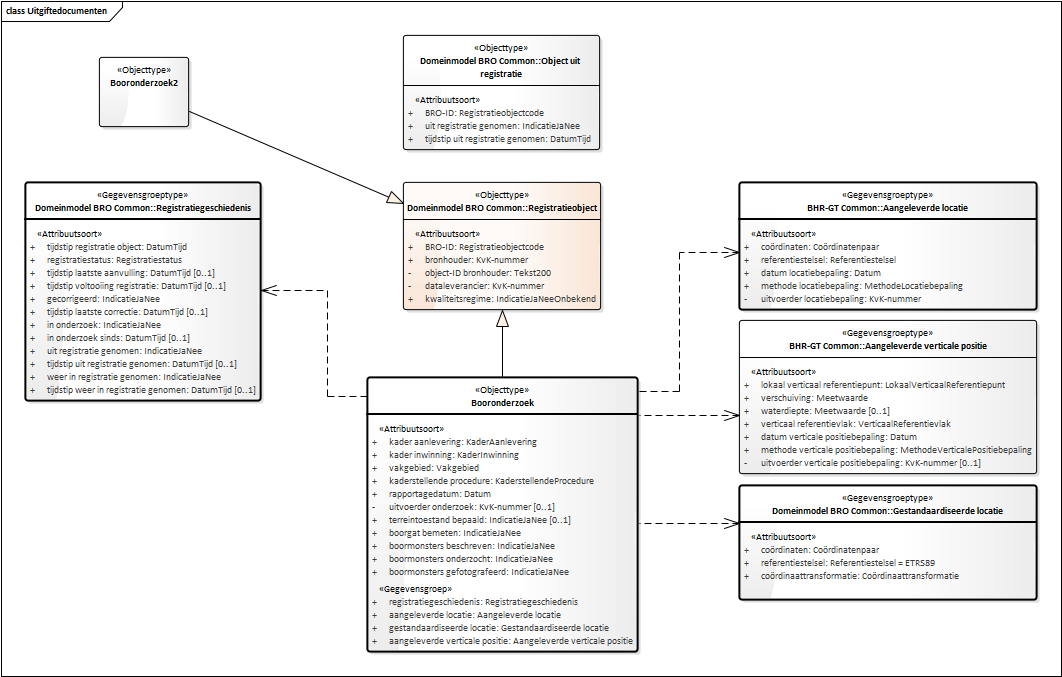
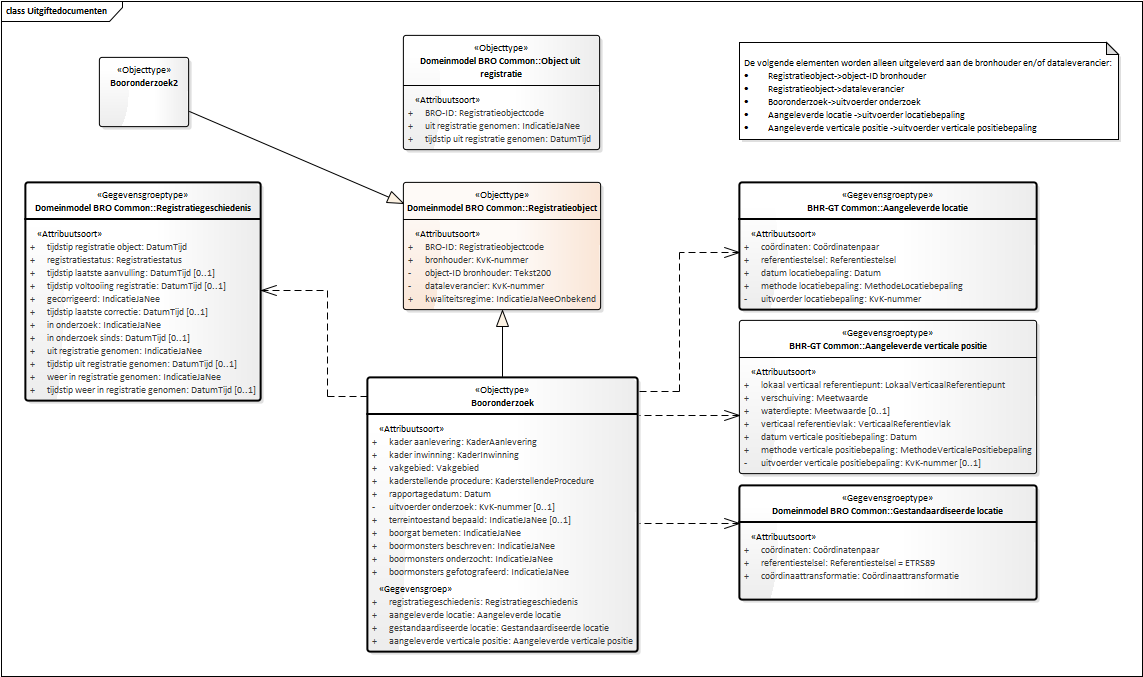
Conceptualmodel-GeotechnischbooronderzoekBHR-GT-1.0-0-20180713-20180806-114608

diff --git a/data/BHR-GT-cat.html b/data/BHR-GT-cat.html
@@ -1,10 +1,10 @@
 <h2>Catalogus</h2>
 <p class="note" title="Over deze catalogus">
    Deze catalogus is automatisch samengesteld op basis van het UML model 
-   "Geotechnisch booronderzoek (BHR-GT)" door 1.46.3 op August 6, 2018 at 09:37:10.
+   "Geotechnisch booronderzoek (BHR-GT)" door 1.46.3 op August 6, 2018 at 09:46:07.
    <br>
    Wanneer je technische fouten of onvolkomenheden aantreft, geef dit dan door aan <i>arjan@linkedmatter.com</i> en geef de code 
-   <i>"Conceptualmodel-GeotechnischbooronderzoekBHR-GT-1.0-0-20180713-20180806-113711"</i> door. 
+   <i>"Conceptualmodel-GeotechnischbooronderzoekBHR-GT-1.0-0-20180713-20180806-114608"</i> door. 
    
 </p><a class="anchor" name="global_package_DomeinmodelBROCommon"></a><section id="global_package_DomeinmodelBROCommon">
    <h3>Domein Domeinmodel BRO Common</h3>
